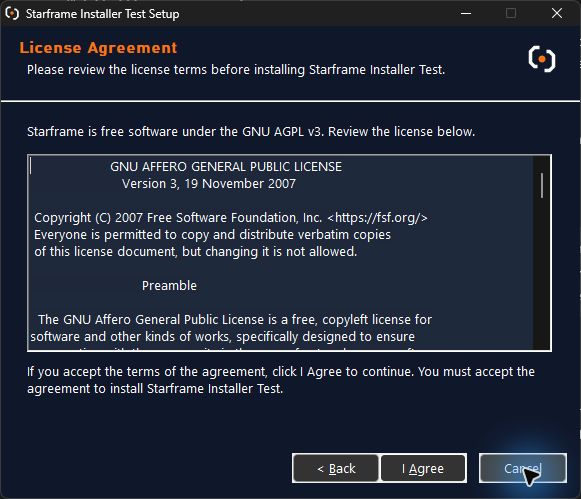
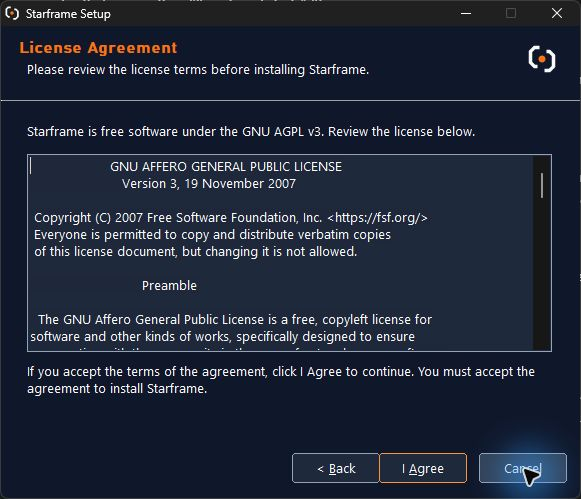
Use thin borders for native installer controls

diff --git a/src-tauri/windows/theme/buttons.cpp b/src-tauri/windows/theme/buttons.cpp
@@ -1,0 +1,174 @@
+#include <windows.h>
+#include <commctrl.h>
+
+static bool HighContrast()
+{
+    HIGHCONTRASTW contrast = {sizeof(contrast), 0, nullptr};
+    return SystemParametersInfoW(SPI_GETHIGHCONTRAST, sizeof(contrast), &contrast, 0)
+        && (contrast.dwFlags & HCF_HIGHCONTRASTON);
+}
+
+static bool DrawButton(const NMCUSTOMDRAW& draw)
+{
+    const HWND button = draw.hdr.hwndFrom;
+    const UINT dpi = GetDpiForWindow(button);
+    const bool disabled = !IsWindowEnabled(button);
+    const bool focused = GetFocus() == button;
+    const bool pressed = (draw.uItemState & CDIS_SELECTED) != 0;
+    const bool hovered = (draw.uItemState & CDIS_HOT) != 0;
+    const bool primary = (GetWindowLongW(button, GWL_STYLE) & BS_TYPEMASK) == BS_DEFPUSHBUTTON;
+    const COLORREF border = disabled ? RGB(71, 85, 105)
+        : focused || primary ? RGB(251, 146, 60) : RGB(148, 163, 184);
+    const COLORREF background = pressed ? RGB(15, 23, 42)
+        : hovered ? RGB(51, 65, 85) : RGB(30, 41, 59);
+    const int saved = SaveDC(draw.hdc);
+    if (!saved) return false;
+    const int width = MulDiv(focused ? 2 : 1, static_cast<int>(dpi), 96);
+    const HPEN pen = CreatePen(PS_SOLID, width > 0 ? width : 1, border);
+    const HBRUSH brush = CreateSolidBrush(background);
+    const HBRUSH canvas = CreateSolidBrush(RGB(15, 23, 42));
+    if (!pen || !brush || !canvas) {
+        DeleteObject(canvas);
+        DeleteObject(brush);
+        DeleteObject(pen);
+        RestoreDC(draw.hdc, saved);
+        return false;
+    }
+    FillRect(draw.hdc, &draw.rc, canvas);
+    SelectObject(draw.hdc, pen);
+    SelectObject(draw.hdc, brush);
+    RECT bounds = draw.rc;
+    const int inset = width / 2;
+    InflateRect(&bounds, -inset, -inset);
+    const int radius = MulDiv(6, static_cast<int>(dpi), 96);
+    RoundRect(draw.hdc, bounds.left, bounds.top, bounds.right, bounds.bottom, radius, radius);
+    const HFONT font = reinterpret_cast<HFONT>(SendMessageW(button, WM_GETFONT, 0, 0));
+    if (font) SelectObject(draw.hdc, font);
+    SetBkMode(draw.hdc, TRANSPARENT);
+    SetTextColor(draw.hdc, disabled ? RGB(148, 163, 184) : RGB(248, 250, 252));
+    wchar_t caption[256];
+    GetWindowTextW(button, caption, ARRAYSIZE(caption));
+    UINT flags = DT_CENTER | DT_VCENTER | DT_SINGLELINE;
+    if (SendMessageW(button, WM_QUERYUISTATE, 0, 0) & UISF_HIDEACCEL) flags |= DT_HIDEPREFIX;
+    DrawTextW(draw.hdc, caption, -1, &bounds, flags);
+    RestoreDC(draw.hdc, saved);
+    DeleteObject(canvas);
+    DeleteObject(brush);
+    DeleteObject(pen);
+    return true;
+}
+
+static LRESULT CALLBACK DialogTheme(HWND window, UINT message, WPARAM wparam, LPARAM lparam,
+    UINT_PTR id, DWORD_PTR)
+{
+    if (message == WM_NOTIFY && lparam && !HighContrast()) {
+        const auto* notification = reinterpret_cast<const NMHDR*>(lparam);
+        if (notification->code == NM_CUSTOMDRAW) {
+            wchar_t kind[32];
+            GetClassNameW(notification->hwndFrom, kind, ARRAYSIZE(kind));
+            const LONG style = GetWindowLongW(notification->hwndFrom, GWL_STYLE) & BS_TYPEMASK;
+            if (lstrcmpiW(kind, L"Button") == 0 && style <= BS_DEFPUSHBUTTON) {
+                const auto* draw = reinterpret_cast<const NMCUSTOMDRAW*>(lparam);
+                if (draw->dwDrawStage == CDDS_PREPAINT && DrawButton(*draw)) {
+                    return CDRF_SKIPDEFAULT;
+                }
+            }
+        }
+    }
+    if (message == WM_NCDESTROY) RemoveWindowSubclass(window, DialogTheme, id);
+    return DefSubclassProc(window, message, wparam, lparam);
+}
+
+static LRESULT CALLBACK BorderTheme(HWND window, UINT message, WPARAM wparam, LPARAM lparam,
+    UINT_PTR id, DWORD_PTR group)
+{
+    if (group && message == WM_PAINT && !HighContrast()) {
+        PAINTSTRUCT paint;
+        const HDC dc = BeginPaint(window, &paint);
+        const int saved = dc ? SaveDC(dc) : 0;
+        const HPEN pen = CreatePen(PS_SOLID, 1, RGB(148, 163, 184));
+        if (!saved || !pen) {
+            if (saved) RestoreDC(dc, saved);
+            DeleteObject(pen);
+            EndPaint(window, &paint);
+            InvalidateRect(window, nullptr, FALSE);
+            return DefSubclassProc(window, message, wparam, lparam);
+        }
+        const HFONT font = reinterpret_cast<HFONT>(SendMessageW(window, WM_GETFONT, 0, 0));
+        if (font) SelectObject(dc, font);
+        TEXTMETRICW metrics;
+        if (!GetTextMetricsW(dc, &metrics)) {
+            metrics.tmHeight = 0;
+            metrics.tmAveCharWidth = 0;
+        }
+        RECT bounds;
+        GetClientRect(window, &bounds);
+        bounds.top += metrics.tmHeight / 2;
+        SelectObject(dc, pen);
+        SelectObject(dc, GetStockObject(NULL_BRUSH));
+        Rectangle(dc, bounds.left, bounds.top, bounds.right, bounds.bottom);
+        wchar_t caption[256];
+        GetWindowTextW(window, caption, ARRAYSIZE(caption));
+        SetTextColor(dc, RGB(248, 250, 252));
+        SetBkColor(dc, RGB(15, 23, 42));
+        SetBkMode(dc, OPAQUE);
+        TextOutW(dc, metrics.tmAveCharWidth, 0, caption, lstrlenW(caption));
+        RestoreDC(dc, saved);
+        DeleteObject(pen);
+        EndPaint(window, &paint);
+        return 0;
+    }
+    if (message == WM_NCDESTROY) RemoveWindowSubclass(window, BorderTheme, id);
+    const LRESULT result = DefSubclassProc(window, message, wparam, lparam);
+    if (!group && message == WM_NCPAINT && !HighContrast()) {
+        RECT bounds;
+        GetWindowRect(window, &bounds);
+        OffsetRect(&bounds, -bounds.left, -bounds.top);
+        POINT origin = {0, 0};
+        ClientToScreen(window, &origin);
+        RECT position;
+        GetWindowRect(window, &position);
+        const int inset = origin.x - position.left;
+        const HDC dc = GetWindowDC(window);
+        const HBRUSH background = CreateSolidBrush(RGB(30, 41, 59));
+        const HBRUSH border = CreateSolidBrush(RGB(148, 163, 184));
+        RECT edge = bounds;
+        for (int i = 0; dc && border && background && i < inset; ++i) {
+            FrameRect(dc, &edge, i == 0 ? border : background);
+            InflateRect(&edge, -1, -1);
+        }
+        DeleteObject(border);
+        DeleteObject(background);
+        if (dc) ReleaseDC(window, dc);
+    }
+    return result;
+}
+
+static BOOL CALLBACK AttachDialog(HWND window, LPARAM)
+{
+    wchar_t kind[32];
+    GetClassNameW(window, kind, ARRAYSIZE(kind));
+    if (lstrcmpW(kind, L"#32770") == 0) SetWindowSubclass(window, DialogTheme, 1, 0);
+    if (lstrcmpiW(kind, L"Button") == 0
+        && (GetWindowLongW(window, GWL_STYLE) & BS_TYPEMASK) == BS_GROUPBOX)
+        SetWindowSubclass(window, BorderTheme, 2, 1);
+    if (lstrcmpiW(kind, L"Edit") == 0 || lstrcmpiW(kind, L"RichEdit20W") == 0
+        || lstrcmpiW(kind, L"SysListView32") == 0)
+        SetWindowSubclass(window, BorderTheme, 2, 0);
+    return TRUE;
+}
+
+extern "C" void __cdecl Apply(HWND parent, int, wchar_t*, void*, void*)
+{
+    // Subclass callbacks must remain loaded until their windows are destroyed.
+    HMODULE module;
+    if (!GetModuleHandleExW(GET_MODULE_HANDLE_EX_FLAG_FROM_ADDRESS | GET_MODULE_HANDLE_EX_FLAG_PIN,
+        reinterpret_cast<LPCWSTR>(&Apply), &module)) return;
+    SetWindowSubclass(parent, DialogTheme, 1, 0);
+    EnumChildWindows(parent, AttachDialog, 0);
+}
+
+extern "C" BOOL WINAPI DllMain(HINSTANCE, DWORD, LPVOID)
+{
+    return TRUE;
+}

diff --git a/docs/verification/windows-installer.md b/docs/verification/windows-installer.md
@@ -96,7 +96,7 @@ The complete ordinary-user installer suite also passed with the schema-12 baseli
 
 ## Installer branding review
 
-Issue [#74](https://github.com/Mastervoliumpl/Starframe/issues/74) extends the existing NSIS installer with the accepted portrait artwork, Segoe UI body text, Bahnschrift headings with a system fallback, navy surfaces and orange headings/progress. Navigation buttons and the title bar use Windows dark styling. The license, destination field and details list use readable light text on navy. License URLs remain selectable plain text so RichEdit does not force blue links with insufficient contrast. No new installer framework, plugin or redistributed Windows font was added.
+Issue [#74](https://github.com/Mastervoliumpl/Starframe/issues/74) extends the existing NSIS installer with the accepted portrait artwork, Segoe UI body text, Bahnschrift headings with a system fallback, navy surfaces and orange headings/progress. A small Starframe-owned Win32 drawing helper gives the native buttons thin borders and orange keyboard focus; fields, group frames and divider lines also use thin borders. The title bar uses Windows dark styling. The license, destination field and details list use readable light text on navy. License URLs remain selectable plain text so RichEdit does not force blue links with insufficient contrast. No new installer framework, external plugin or redistributed Windows font was added.
 
 The owner accepted the portrait and palette on 15 September 2026, then asked for the remaining controls to match. [Representative native screenshots](../design/installer/README.md) record the revised controls. Artwork provenance and hashes are in [ASSETS.md](../design/ASSETS.md#windows-installer-artwork); the installer carries the Sanctuary artwork notice. The native high-contrast path restores system colors/themes, but final high-contrast, screen-reader and scaling acceptance remains in #30.
 
@@ -104,7 +104,9 @@ The full ordinary-user installer regression passed with the first branded build 
 
 The final control styling was checked through a separate `Starframe Installer Test` installation and same-version repair. Keyboard navigation, destination controls, dark details, orange progress, disabled navigation, completion-page focus and Space toggling were observed. Both optional completion checkboxes were cleared before exit; the app was not launched. The custom-page callback receives the newly created page handle, avoiding the previous page while NSIS transitions between pages. The uninstall introduction, directory and retention checkbox use separate dialog-unit rows so the larger font does not overlap them. The default remains unchecked.
 
-The updated test uninstaller was opened for the owner's visual/keyboard check. That result and final approval of the revised controls remain pending; #74 stays open. The fixture uses only ignored test evidence and a separate product/data identity. No real game or personal Starframe data was changed. Logs and any screenshots containing local paths remain ignored.
+The owner confirmed that the updated test uninstaller looked right overall, keyboard navigation worked, and the fixture was uninstalled. Follow-up checks confirmed that its executable, uninstall registration and managed data were absent. The subsequent thin-border refinement was checked on the native welcome, license and destination pages, including Tab focus on Browse and Enter navigation. The helper leaves control input, selection and accessibility identities with Windows and bypasses custom drawing in high-contrast mode. Checkbox/radio glyphs and common dialogs remain native.
+
+The full installer regression passed again with the drawing helper: migration, repair, both data choices, running-app protection and recovery. Actual interruption occurred after 9 of 8,192 game files and 491 data files; retries completed. The final field/group refinement compiled with warnings treated as errors and was inspected in the packaged installer. The fixture uses only ignored test evidence and a separate product/data identity. No real game or personal Starframe data was changed. Logs and any screenshots containing local paths remain ignored.
 
 ## Owner-reported offline VM acceptance
 

diff --git a/DESIGN.md b/DESIGN.md
@@ -39,6 +39,8 @@ The installer and uninstaller must follow Starframe's navy/orange palette, typog
 
 The owner accepted the portrait/navy/orange direction on 15 September 2026 and requested consistent styling for the remaining controls, including buttons. Carry the dark treatment through navigation buttons, inputs, license text and progress details. Keep Windows button behavior and visible focus; high-contrast colors take precedence over branding.
 
+The subsequent uninstall review requested thin borders instead of raised, bright Windows bevels. Use thin neutral borders for ordinary controls and an orange focus outline, retaining the native controls and their keyboard behavior. Decorative divider lines should remain subdued. Custom drawing must yield to the system in high-contrast mode.
+
 Starframe manages the game integration automatically. Choosing a validated game installation authorizes preparation of the required bootstrap/runtime when the game is closed. App installation and upgrades include the required runtime resources; the desktop prepares the matching runtime automatically on first start and after updates. If a game location is not yet known, ask for the location, not a separate runtime installation. Show preparation, waiting and failure states accurately. Keep repair/reinstall available in Settings without making it part of ordinary setup.
 
 Uninstall automatically removes Starframe's recorded game integration and restores backed-up originals before removing the desktop app. Users must not have to visit Settings first. A running game, inaccessible installation or conflicting files must stop cleanup with an explanation and a retry path. Keep the app and its recovery records until cleanup succeeds; never force-close the game or erase another loader's files.

diff --git a/docs/design/installer/README.md b/docs/design/installer/README.md
@@ -1,8 +1,10 @@
 # Installer review
 
-Issue [#74](https://github.com/Mastervoliumpl/Starframe/issues/74), 15 September 2026. These are native NSIS captures from the separate **Starframe Installer Test** identity. They contain no personal paths. The application identity in the normal candidate is **Starframe**.
+Issue [#74](https://github.com/Mastervoliumpl/Starframe/issues/74), 15 September 2026. These are native NSIS captures from **Starframe** and the separate **Starframe Installer Test** identity. They contain no personal paths.
 
-The owner accepted the artwork, palette and general direction, then requested consistent styling for the remaining controls. The candidate now uses native dark navigation buttons and title bar, navy inputs/license/details, orange progress and headings, and readable checkbox/radio labels. Windows controls retain their input behavior; high-contrast mode selects system colors. Windows common dialogs keep their platform appearance.
+The owner accepted the artwork, palette and general direction, then requested consistent styling for the remaining controls. After successful uninstall and keyboard review, the owner requested thin borders. A small native drawing helper now gives the existing buttons navy surfaces, thin borders and orange keyboard focus; field/group borders and dividers are also simplified. Windows controls retain their input behavior; high-contrast mode selects system colors and bypasses custom drawing. Windows common dialogs keep their platform appearance.
+
+The welcome and license captures show the final thin borders. The maintenance, completed and finish captures record the earlier full-page review, before the shared drawing helper was added.
 
 ![Welcome page](welcome.jpg)
 

diff --git a/CHANGELOG.md b/CHANGELOG.md
@@ -2,7 +2,7 @@
 
 ## Unreleased
 
-- Brand the Windows installer with Starframe portrait artwork, navy surfaces, orange headings and progress, native dark controls and clearer maintenance/uninstall wording (#74). Preserve keyboard controls, system high-contrast fallback and the unchecked data-retention default; owner review and final display acceptance remain in progress.
+- Brand the Windows installer with Starframe portrait artwork, navy surfaces, orange headings and progress, thin control borders and clearer maintenance/uninstall wording (#74). Preserve native keyboard controls, system high-contrast fallback and the unchecked data-retention default. Owner review and installer regressions passed; final display/accessibility acceptance remains in #30.
 - Exit setup after a successful same-version maintenance uninstall instead of returning to installation pages. Preserve reinstall, version replacement and cancellation behavior (#27).
 - Update rustls to 0.23.45 to fix TLS handshake validation advisory RUSTSEC-2026-0285 in the catalog verifier's dependency graph; refresh the corresponding notice inventory.
 - Authenticate catalog refreshes through TUF, with expiry, rollback and retained key-rotation checks (#46). Schema 13 commits catalog and advisory targets together. Expired or unverified information pauses new downloads; verified library reuse remains available offline. Confirmed findings block matching downloads and activation, including local payloads, while preserving files/settings. Show evidence and correction history and add public problem/private security reporting routes. Daily renewal uses thirty-day validity; hosted publication remains disabled pending acceptance.

diff --git a/docs/THIRD_PARTY_NOTICES.md b/docs/THIRD_PARTY_NOTICES.md
@@ -8,6 +8,8 @@ This notice supplements the repository license. Installer inventories include th
 
 The NSIS template derives from Tauri CLI 2.11.4, copyright (c) 2017 - Present Tauri Apps Contributors, under the [MIT license](notices/Tauri-MIT.txt). Starframe changes the uninstall checkbox to offer explicit retention and marks an app replacement as an update so it preserves data. Source: https://github.com/tauri-apps/tauri/blob/tauri-cli-v2.11.4/crates/tauri-bundler/src/bundle/windows/nsis/installer.nsi.
 
+The native control drawing helper in `src-tauri/windows/theme` is Starframe source covered by the repository license. It links Windows system libraries and adds no third-party runtime or font redistribution.
+
 ## Oxanium font
 
 Copyright 2019 The Oxanium Project Authors. The bundled, unchanged Oxanium variable font is used at weight 800 for the Starframe wordmark and launch control. It is licensed under the [SIL Open Font License 1.1](notices/OFL-Oxanium.txt). Source: https://github.com/google/fonts/tree/main/ofl/oxanium.

diff --git a/DEVELOPMENT.md b/DEVELOPMENT.md
@@ -138,6 +138,8 @@ The build icons were generated from [the approved SVG](docs/design/starframe-mar
 
 ## Tool references
 
+The NSIS packaging preflight also compiles the small native control painter in `src-tauri/windows/theme` using the installed Visual Studio C++ x86 tools. The installer host is 32-bit even though Starframe is 64-bit. `scripts/prepare_windows_installer.ps1` runs the existing runtime/notices preflight, then builds the helper with compiler warnings treated as errors. CI uses `-ThemeOnly` to compile it without game integration resources. The helper links Windows system libraries and requires no separate C runtime installation. Button input remains in the standard Windows controls; the helper handles drawing and falls back to native rendering in high-contrast mode.
+
 - [Svelte tooling](https://svelte.dev/packages)
 - [Clippy usage](https://doc.rust-lang.org/stable/clippy/usage.html)
 - [.NET formatting checks](https://learn.microsoft.com/en-us/dotnet/core/tools/dotnet-format)
